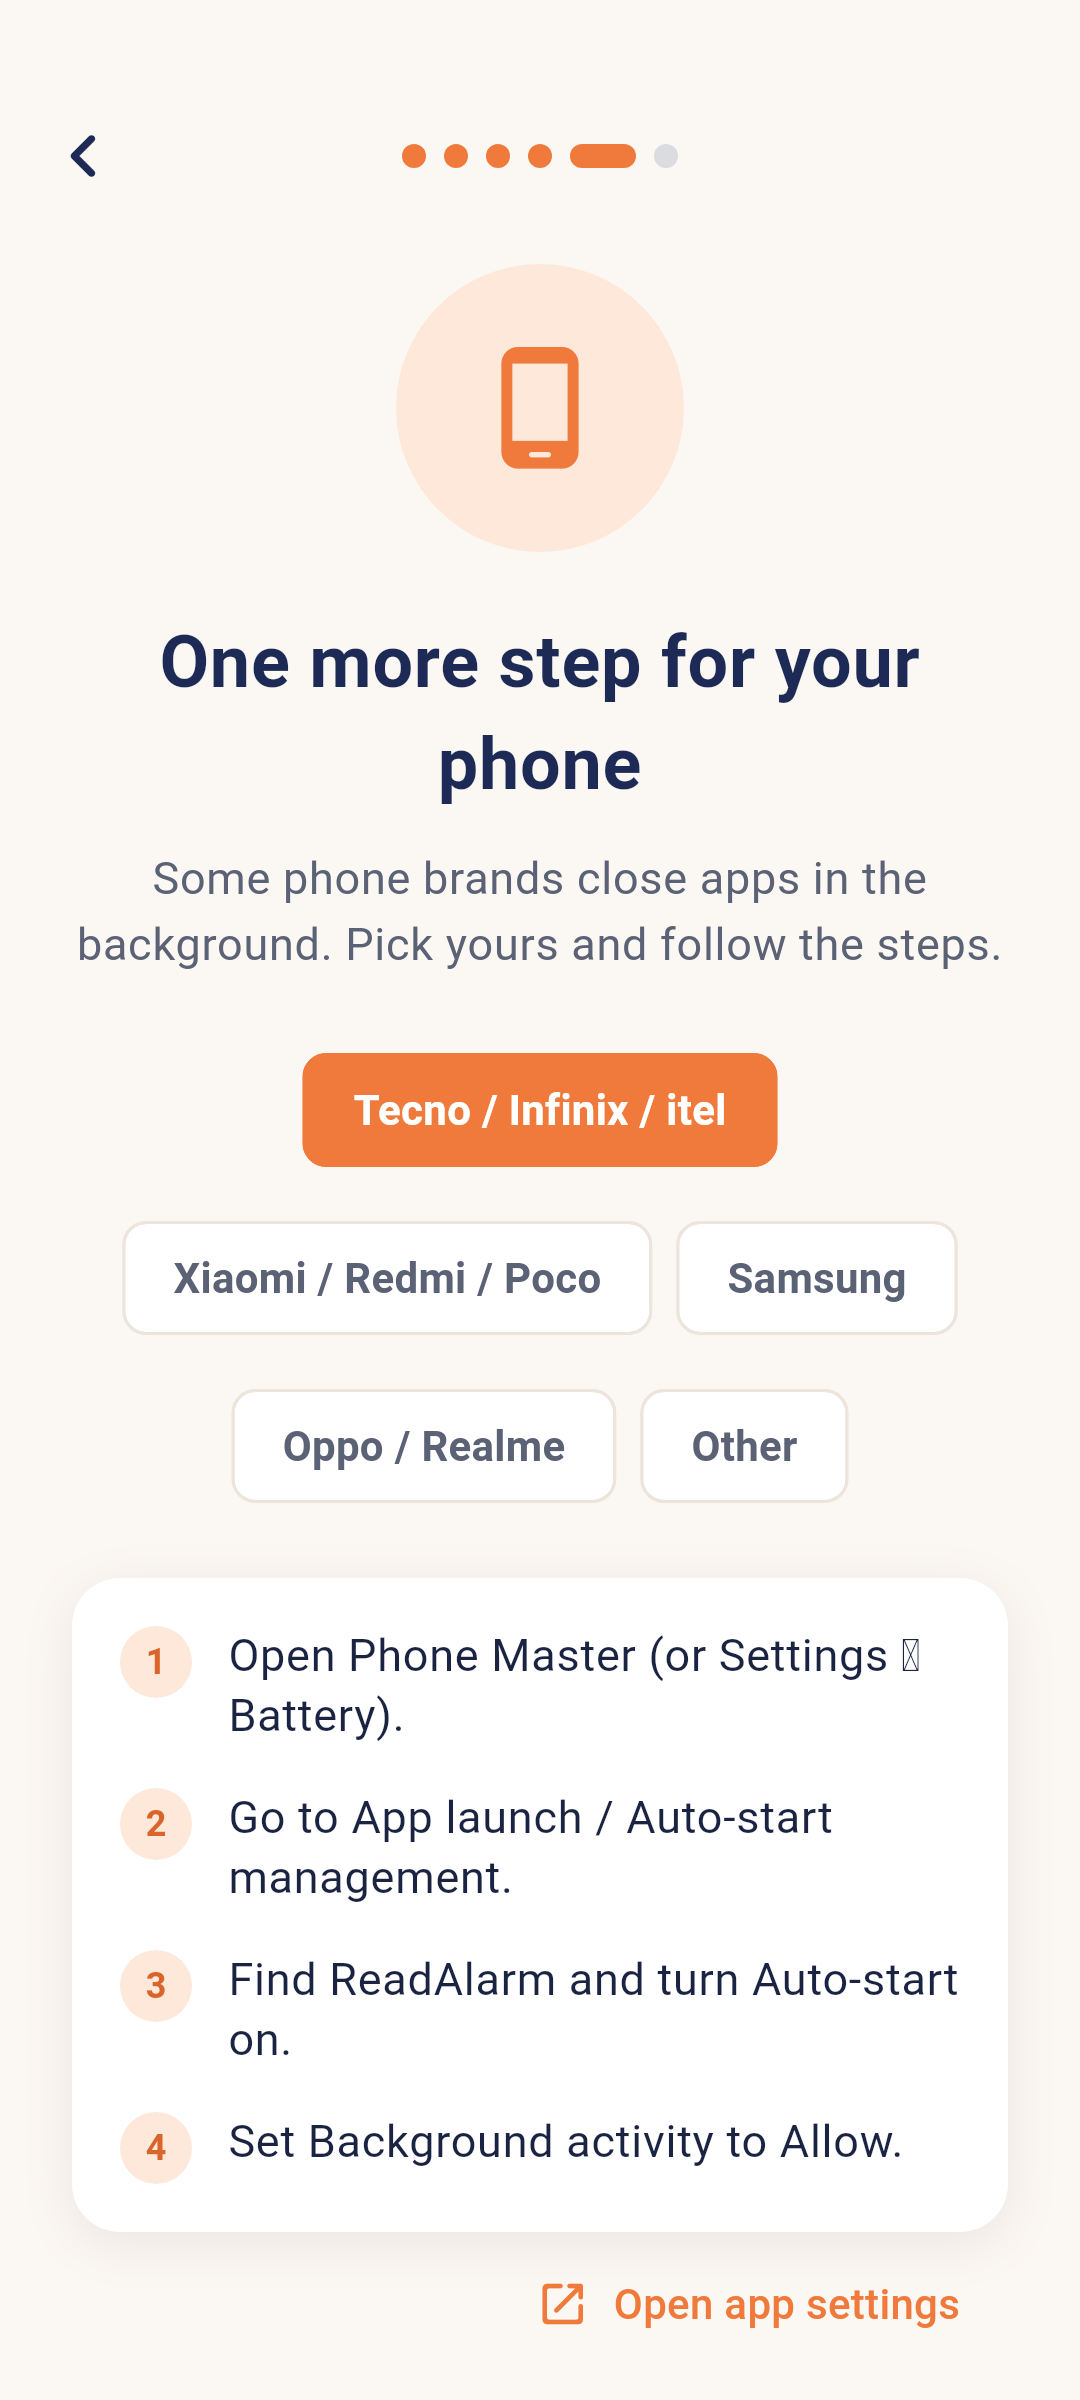
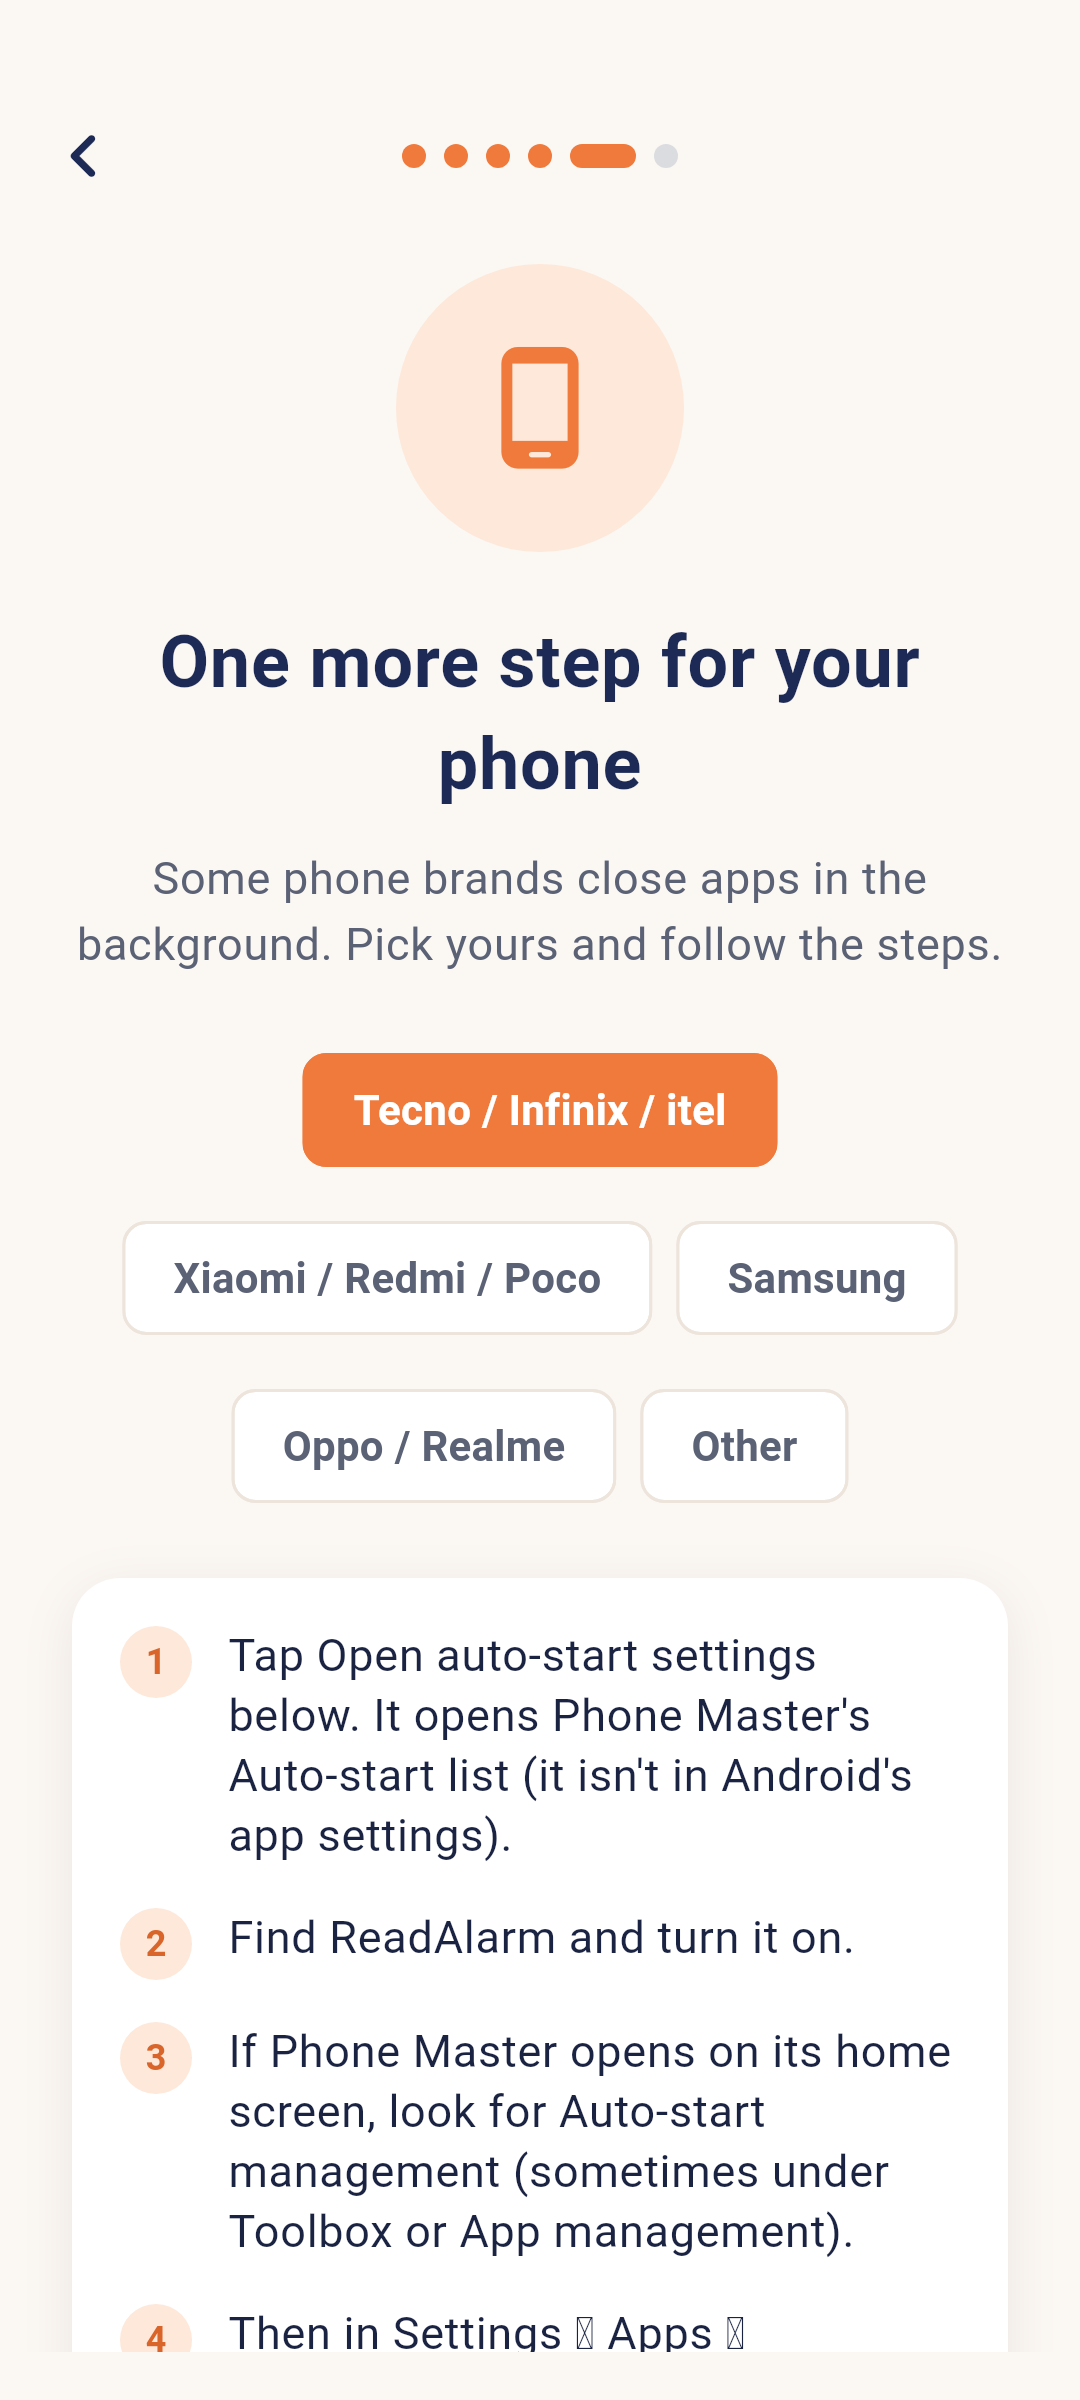
Open the phone maker's auto-start screen, not Android's app info
On Tecno, Infinix and itel phones the auto-start switch is in Phone
Master, not in Android's app settings, so "Open app settings" led to a
page without it.

"Open auto-start settings" now opens the maker's own auto-start screen
(Phone Master on Tecno/Infinix, itel's manager, and the equivalents on
Xiaomi, Oppo/Realme, Vivo and Huawei). If only the maker's phone-manager
app can be opened, it opens that and says where to look; with neither,
it falls back to the app info page and says to allow background activity
under Battery. The Tecno / Infinix / itel steps are rewritten to match.

Tests: the button opens the maker's page, and the hint shows when only
the manager app opens. Screenshots updated.

Claude-Session: https://claude.ai/code/session_011wqcfZCEUU19ShiaM9zG3S

Changed region(s): [[0.2139, 0.6875, 0.8861, 1.0], [0.0917, 0.7188, 0.1833, 1.0], [0.2444, 0.9688, 0.3056, 1.0]]

diff --git a/android/app/src/main/kotlin/com/readalarm/readalarm/MainActivity.kt b/android/app/src/main/kotlin/com/readalarm/readalarm/MainActivity.kt
@@ -1,5 +1,68 @@
 package com.readalarm.readalarm
 
+import android.content.ComponentName
+import android.content.Intent
 import io.flutter.embedding.android.FlutterActivity
+import io.flutter.embedding.engine.FlutterEngine
+import io.flutter.plugin.common.MethodChannel
 
-class MainActivity : FlutterActivity()
+class MainActivity : FlutterActivity() {
+    override fun configureFlutterEngine(flutterEngine: FlutterEngine) {
+        super.configureFlutterEngine(flutterEngine)
+        MethodChannel(flutterEngine.dartExecutor.binaryMessenger, "readalarm/autostart")
+            .setMethodCallHandler { call, result ->
+                if (call.method == "open") result.success(openAutoStart()) else result.notImplemented()
+            }
+    }
+
+    /**
+     * Opens the phone maker's auto-start screen, which isn't in Android's own
+     * app settings. Returns "autostart" if that screen opened, "manager" if
+     * only the maker's phone-manager app did, or null if neither exists.
+     */
+    private fun openAutoStart(): String? {
+        for ((pkg, cls) in AUTO_START_SCREENS) {
+            if (start(Intent().setComponent(ComponentName(pkg, cls)))) return "autostart"
+        }
+        for (pkg in PHONE_MANAGERS) {
+            val launch = packageManager.getLaunchIntentForPackage(pkg) ?: continue
+            if (start(launch)) return "manager"
+        }
+        return null
+    }
+
+    private fun start(intent: Intent): Boolean = try {
+        startActivity(intent)
+        true
+    } catch (e: Exception) {
+        // Not on this phone, or not opened to other apps.
+        false
+    }
+
+    companion object {
+        private val AUTO_START_SCREENS = listOf(
+            // Tecno, Infinix (Phone Master) and itel
+            "com.transsion.phonemaster" to "com.cyin.himgr.autostart.AutoStartActivity",
+            "com.itel.autobootmanager" to "com.itel.autobootmanager.activity.AutoBootMgrActivity",
+            // Xiaomi, Redmi, Poco
+            "com.miui.securitycenter" to "com.miui.permcenter.autostart.AutoStartManagementActivity",
+            // Oppo, Realme
+            "com.coloros.safecenter" to "com.coloros.safecenter.permission.startup.StartupAppListActivity",
+            "com.coloros.safecenter" to "com.coloros.safecenter.startupapp.StartupAppListActivity",
+            "com.oppo.safe" to "com.oppo.safe.permission.startup.StartupAppListActivity",
+            // Vivo
+            "com.vivo.permissionmanager" to "com.vivo.permissionmanager.activity.BgStartUpManagerActivity",
+            "com.iqoo.secure" to "com.iqoo.secure.ui.phoneoptimize.AddWhiteListActivity",
+            // Huawei, Honor
+            "com.huawei.systemmanager" to "com.huawei.systemmanager.startupmgr.ui.StartupNormalAppListActivity",
+            "com.huawei.systemmanager" to "com.huawei.systemmanager.optimize.process.ProtectActivity",
+        )
+
+        private val PHONE_MANAGERS = listOf(
+            "com.transsion.phonemaster",
+            "com.miui.securitycenter",
+            "com.coloros.safecenter",
+            "com.huawei.systemmanager",
+        )
+    }
+}

diff --git a/lib/screens/onboarding/oem_autostart_screen.dart b/lib/screens/onboarding/oem_autostart_screen.dart
@@ -1,4 +1,5 @@
 import 'package:flutter/material.dart';
+import '../../services/permission_service.dart';
 import '../../state/app_state.dart';
 import '../../theme/app_colors.dart';
 import '../../widgets/common.dart';
@@ -33,10 +34,13 @@ class _OemAutostartScreenState extends State<OemAutostartScreen> {
 
   static const _guides = <String, List<String>>{
     'Tecno / Infinix / itel': [
-      'Open Phone Master (or Settings → Battery).',
-      'Go to App launch / Auto-start management.',
-      'Find ReadAlarm and turn Auto-start on.',
-      'Set Background activity to Allow.',
+      'Tap Open auto-start settings below. It opens Phone Master\'s '
+          'Auto-start list (it isn\'t in Android\'s app settings).',
+      'Find ReadAlarm and turn it on.',
+      'If Phone Master opens on its home screen, look for Auto-start '
+          'management (sometimes under Toolbox or App management).',
+      'Then in Settings → Apps → ReadAlarm → Battery, allow background '
+          'activity.',
     ],
     'Xiaomi / Redmi / Poco': [
       'Open Settings → Apps → Manage apps → ReadAlarm.',
@@ -58,6 +62,27 @@ class _OemAutostartScreenState extends State<OemAutostartScreen> {
       'Choose Unrestricted.',
     ],
   };
+
+  /// Opens the phone maker's auto-start page, with a hint if only a nearby
+  /// page could be opened.
+  Future<void> _openAutoStart(AppState state) async {
+    final page = await state.services.permissions.openAutoStartSettings();
+    if (!mounted) return;
+    switch (page) {
+      case AutoStartPage.autoStart:
+        break;
+      case AutoStartPage.phoneManager:
+        showSnack(
+            context,
+            'Look for Auto-start management (sometimes under Toolbox or App '
+            'management) and turn ReadAlarm on.');
+      case AutoStartPage.appInfo:
+        showSnack(
+            context,
+            'No separate auto-start page was found on this phone. Open '
+            'Battery and allow ReadAlarm to run in the background.');
+    }
+  }
 
   @override
   Widget build(BuildContext context) {
@@ -152,9 +177,9 @@ class _OemAutostartScreenState extends State<OemAutostartScreen> {
         Align(
           alignment: Alignment.centerRight,
           child: TextButton.icon(
-            onPressed: state.services.permissions.openAppSettings,
+            onPressed: () => _openAutoStart(state),
             icon: const Icon(Icons.open_in_new_rounded, size: 18),
-            label: const Text('Open app settings'),
+            label: const Text('Open auto-start settings'),
             style: TextButton.styleFrom(foregroundColor: AppColors.orange),
           ),
         ),

diff --git a/lib/services/permission_service.dart b/lib/services/permission_service.dart
@@ -1,4 +1,5 @@
 import 'package:flutter/foundation.dart';
+import 'package:flutter/services.dart';
 import 'package:flutter_local_notifications/flutter_local_notifications.dart';
 import 'package:permission_handler/permission_handler.dart';
 
@@ -16,6 +17,21 @@ abstract class PermissionService {
   Future<void> request(String key);
 
   Future<void> openAppSettings();
+
+  /// Opens the phone maker's auto-start setting, or the closest page found.
+  Future<AutoStartPage> openAutoStartSettings();
+}
+
+/// Which page [PermissionService.openAutoStartSettings] opened.
+enum AutoStartPage {
+  /// The maker's auto-start list (e.g. Phone Master's on Tecno).
+  autoStart,
+
+  /// The maker's phone-manager app, at its home screen.
+  phoneManager,
+
+  /// Android's app info page for ReadAlarm (no maker screen found).
+  appInfo,
 }
 
 class AndroidPermissionService implements PermissionService {
@@ -52,6 +68,24 @@ class AndroidPermissionService implements PermissionService {
 
   @override
   Future<void> openAppSettings() => openAppSettingsPage();
+
+  static const _autoStart = MethodChannel('readalarm/autostart');
+
+  @override
+  Future<AutoStartPage> openAutoStartSettings() async {
+    try {
+      switch (await _autoStart.invokeMethod<String>('open')) {
+        case 'autostart':
+          return AutoStartPage.autoStart;
+        case 'manager':
+          return AutoStartPage.phoneManager;
+      }
+    } catch (e) {
+      debugPrint('Opening auto-start settings failed: $e');
+    }
+    await openAppSettingsPage();
+    return AutoStartPage.appInfo;
+  }
 }
 
 /// permission_handler's top-level function, renamed to avoid the clash with

diff --git a/test/app_flow_test.dart b/test/app_flow_test.dart
@@ -5,6 +5,7 @@ import 'package:readalarm/models/reading_alarm.dart';
 import 'package:readalarm/screens/main_shell.dart';
 import 'package:readalarm/services/alarm_scheduler.dart';
 import 'package:readalarm/services/billing_service.dart';
+import 'package:readalarm/services/permission_service.dart';
 import 'package:readalarm/services/book_importer.dart';
 import 'package:readalarm/state/app_state.dart';
 
@@ -46,9 +47,21 @@ void main() {
     expect(fakes.permissions.requested, ['notifications', 'exactAlarm']);
     expect(state.permissions['battery'], isFalse);
 
-    // The phone's brand guide is preselected (fakes report a Tecno).
-    expect(find.text('Open Phone Master (or Settings → Battery).'),
-        findsOneWidget);
+    // The phone's brand guide is preselected (fakes report a Tecno), and
+    // the button opens the maker's auto-start page, not Android's app info.
+    expect(
+        find.textContaining('Phone Master\'s Auto-start list'), findsOneWidget);
+    await tapText(tester, 'Open auto-start settings');
+    expect(fakes.permissions.autoStartOpened, 1);
+    expect(find.byType(SnackBar), findsNothing);
+
+    // Only Phone Master's home screen found: say where to look.
+    fakes.permissions.autoStartPage = AutoStartPage.phoneManager;
+    await tapText(tester, 'Open auto-start settings');
+    expect(
+        find.textContaining('Look for Auto-start management'), findsOneWidget);
+    await tester.pump(const Duration(seconds: 5)); // Let the message go.
+    await tester.pumpAndSettle();
     await tapText(tester, 'I\'ve done this');
     expect(state.autoStartConfirmed, isTrue);
 

diff --git a/test/support/fakes.dart b/test/support/fakes.dart
@@ -162,6 +162,16 @@ class FakePermissions implements PermissionService {
 
   @override
   Future<void> openAppSettings() async {}
+
+  /// What [openAutoStartSettings] finds on this "phone".
+  AutoStartPage autoStartPage = AutoStartPage.autoStart;
+  int autoStartOpened = 0;
+
+  @override
+  Future<AutoStartPage> openAutoStartSettings() async {
+    autoStartOpened++;
+    return autoStartPage;
+  }
 }
 
 class FakePlayback implements PlaybackService {
